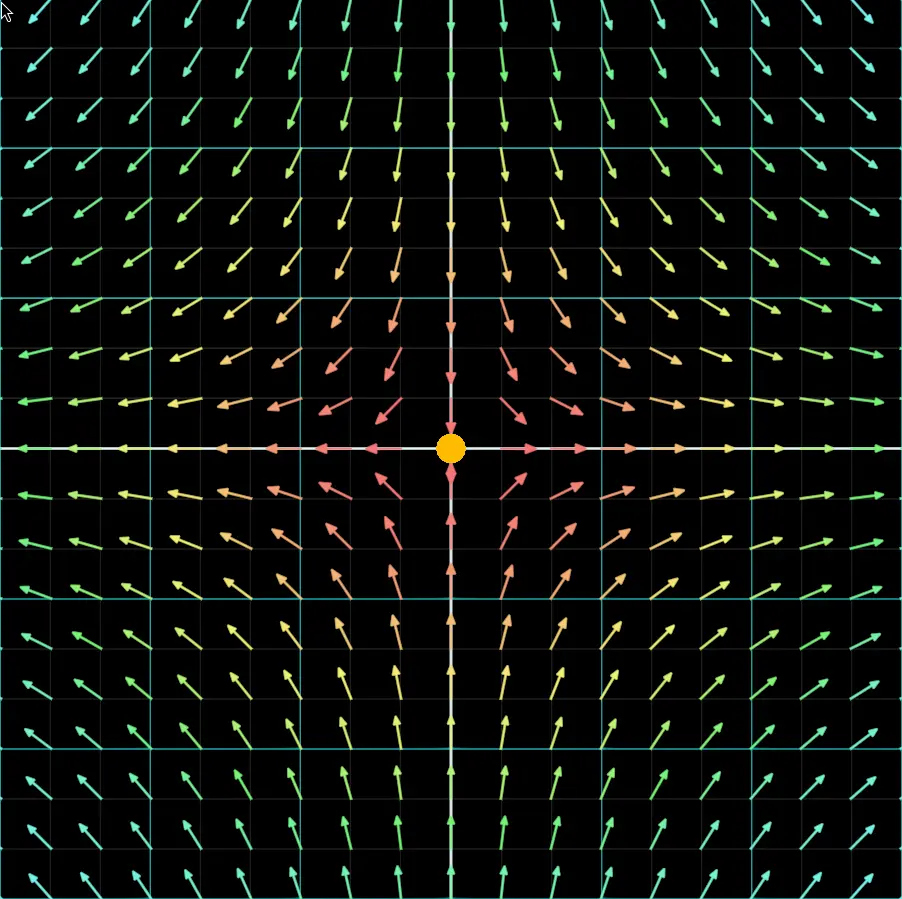
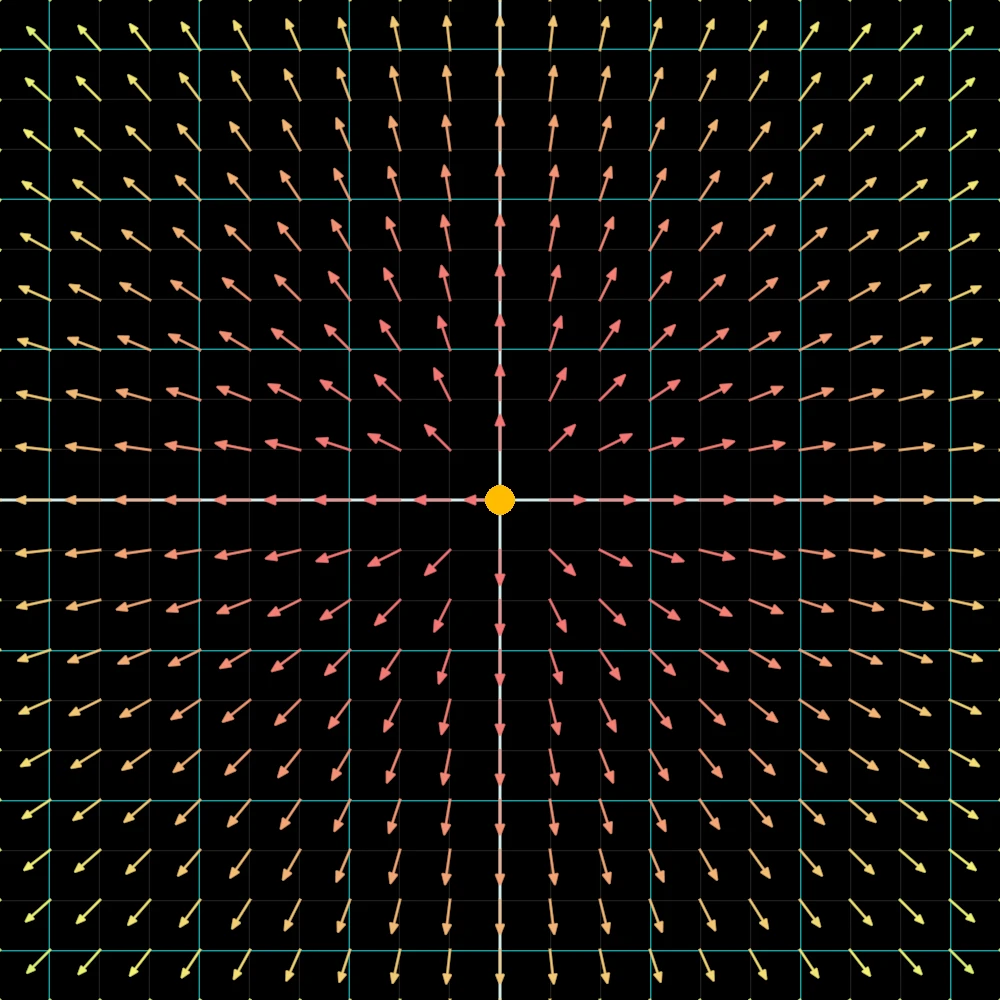
Fixes + Color Selection + Update Images

Changed region(s): [[0.0, 0.0, 1.0, 1.0]]

diff --git a/rust-gpu/app/src/wgpu_renderer/state.rs b/rust-gpu/app/src/wgpu_renderer/state.rs
@@ -91,18 +91,25 @@ impl State {
         let config = swapchain.get_config().unwrap();
         let format = swapchain.get_format();
 
-        let charges = vec![
-            Charge {
+        let mut charges = vec![Charge {
+            position: [size.width as f32 / 2.0, size.height as f32 / 2.0],
+            charge: -5.0,
+            _pad: 0.0,
+        }];
+
+        let num_outer = 8;
+        let radius = 300.0;
+        for i in 0..num_outer {
+            let angle = (i as f32) * (2.0 * std::f32::consts::PI / num_outer as f32);
+            charges.push(Charge {
+                position: [
+                    (size.width as f32 / 2.0) + radius * angle.cos(),
+                    (size.height as f32 / 2.0) + radius * angle.sin(),
+                ],
                 charge: 1.0,
-                position: [size.width as f32 / 2.0 + 200.0, size.height as f32 / 2.0],
                 _pad: 0.0,
-            },
-            Charge {
-                charge: -1.0,
-                position: [size.width as f32 / 2.0 - 200.0, size.height as f32 / 2.0],
-                _pad: 0.0,
-            },
-        ];
+            });
+        }
 
         // Create a renderer
         let renderer = Renderer::new(
@@ -373,7 +380,7 @@ impl State {
                     epsilon_naught: ((8.9_f32).powi(-8)),
                     num_charges: self.renderer.electric_manager.charges.len() as u32,
                     color_value: self.renderer.ui_manager.committed_input_values.color_value,
-                    _pad: [0.0; 3],
+                    _pad1: [0.0; 3],
                     draw_options: DrawOptions::from(
                         &self.renderer.ui_manager.committed_input_values,
                     ),

diff --git a/rust-gpu/shaders/shared/src/lib.rs b/rust-gpu/shaders/shared/src/lib.rs
@@ -40,8 +40,8 @@ pub const H: i32 = 1;
 #[derive(Debug, Clone, Copy, Zeroable, Pod)]
 #[repr(C)]
 pub struct Charge {
-    pub charge: f32,
     pub position: [f32; 2],
+    pub charge: f32,
     pub _pad: f32,
 }
 
@@ -66,7 +66,8 @@ pub struct ElectricOptions {
     pub max_steps: u32,
     pub step_size: f32,
     pub stop_distance: f32,
-    pub _pad: [f32; 2],
+    pub _pad: [f32; 3],
+    pub equipotential_color_rgba: [f32; 4],
 }
 
 // --- From Grid Shader ---
@@ -95,22 +96,15 @@ pub struct ShaderConstants {
     pub height: u32,
     pub aspect_ratio: f32,
     pub time: f32,
-    //  16
     pub dt: f32,
-    // To know if i am within range
     pub num_particles: u32,
     pub epsilon_naught: f32,
     pub num_charges: u32,
-    // 32
     pub color_value: f32,
-    pub _pad: [f32; 3],
-    // 48
+    pub _pad1: [f32; 3],
     pub draw_options: DrawOptions,
-    // 64
     pub particle_options: ParticleOptions,
-    // 80
     pub electric_options: ElectricOptions,
-    // 112
 }
 
 #[derive(Default, Copy, Clone, Pod, Zeroable)]

diff --git a/rust-gpu/app/src/wgpu_renderer/ui/ui.rs b/rust-gpu/app/src/wgpu_renderer/ui/ui.rs
@@ -109,6 +109,15 @@ impl UI {
                     &mut manager.input_values.electric_ui_options.stop_distance,
                     "Stop Distance",
                 );
+
+                self.color_picker(
+                    ui,
+                    &mut manager
+                        .input_values
+                        .electric_ui_options
+                        .equipotential_color_rgba,
+                    "Equipotential Lines Color RGBA",
+                );
             });
         });
 
@@ -165,6 +174,13 @@ impl UI {
             if ui.add(Button::new(label)).clicked() {
                 *value = true
             }
+        });
+    }
+
+    pub fn color_picker(&self, ui: &mut Ui, value: &mut [f32; 4], label: &str) {
+        ui.horizontal(|ui| {
+            ui.color_edit_button_rgba_unmultiplied(value);
+            ui.label(label);
         });
     }
 }

diff --git a/rust-gpu/shaders/grid/src/lib.rs b/rust-gpu/shaders/grid/src/lib.rs
@@ -150,6 +150,8 @@ pub fn grid_fs(
 
     if constants.draw_options.draw_potential == 1 {
         let index = px_x.floor() as i32 + px_y.floor() as i32 * constants.width as i32;
+        let rgba = constants.electric_options.equipotential_color_rgba;
+        let color = Vec4::new(rgba[0], rgba[1], rgba[2], rgba[3]);
 
         // Safety check
         if (index as usize) < electric_field.len() && (index as usize) < potential_field.len() {
@@ -168,7 +170,8 @@ pub fn grid_fs(
                 alpha += antialias(potential_difference / vec_strength, 1.0);
                 target_potential += 250.0;
             }
-            *output = output.lerp(AXIS_COLOR, alpha);
+
+            *output = output.lerp(color, alpha);
         }
     }
 }

diff --git a/rust-gpu/app/src/wgpu_renderer/ui/manager.rs b/rust-gpu/app/src/wgpu_renderer/ui/manager.rs
@@ -20,8 +20,9 @@ pub const DEFAULT_CONFIG: InputValues = InputValues {
         num_particles_per_charge: 60,
         max_steps: 550,
         step_size: 3.0,
-        stop_distance: 10.0,
+        stop_distance: 14.5,
         charge_strength: 1.0,
+        equipotential_color_rgba: [0.0, 0.545, 0.545, 1.0],
     },
     charge_spawn_ui_options: ChargeSpawnUIOptions {
         x: 0.0,
@@ -75,6 +76,7 @@ pub struct ElectricUIOptions {
     pub step_size: f32,
     pub stop_distance: f32,
     pub charge_strength: f32,
+    pub equipotential_color_rgba: [f32; 4],
 }
 
 pub struct UIManager {

diff --git a/rust-gpu/app/src/wgpu_renderer/mod.rs b/rust-gpu/app/src/wgpu_renderer/mod.rs
@@ -63,7 +63,8 @@ impl From<&InputValues> for ElectricOptions {
             max_steps: value.electric_ui_options.max_steps as u32,
             step_size: value.electric_ui_options.step_size,
             stop_distance: value.electric_ui_options.stop_distance,
-            _pad: [0.0; 2],
+            _pad: [0.0; 3],
+            equipotential_color_rgba: value.electric_ui_options.equipotential_color_rgba,
         }
     }
 }

diff --git a/rust-gpu/app/src/wgpu_renderer/managers/electric.rs b/rust-gpu/app/src/wgpu_renderer/managers/electric.rs
@@ -110,8 +110,8 @@ impl ElectricManager {
         }
 
         let charge = Charge {
-            charge: self.next_charge,
             position,
+            charge: self.next_charge,
             _pad: 0.0,
         };
 
